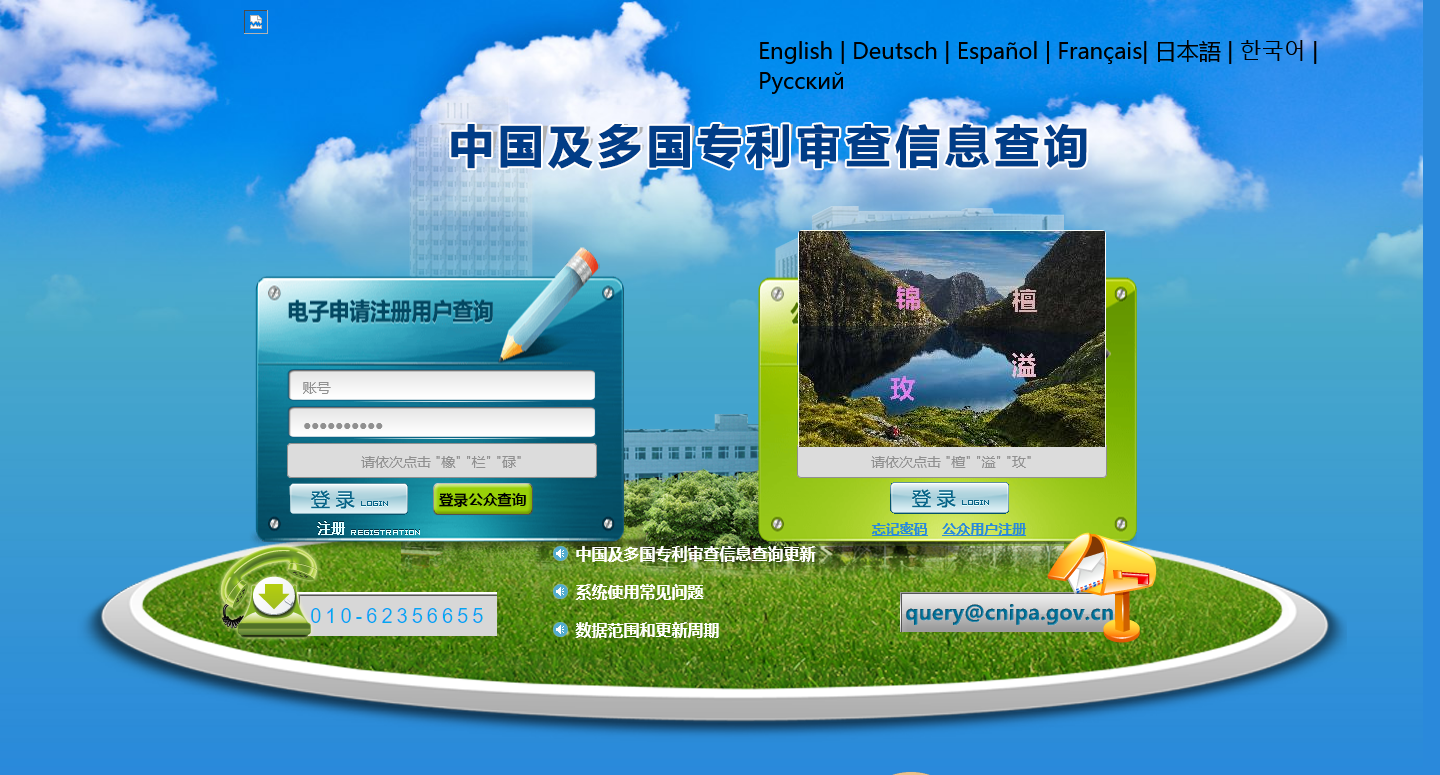
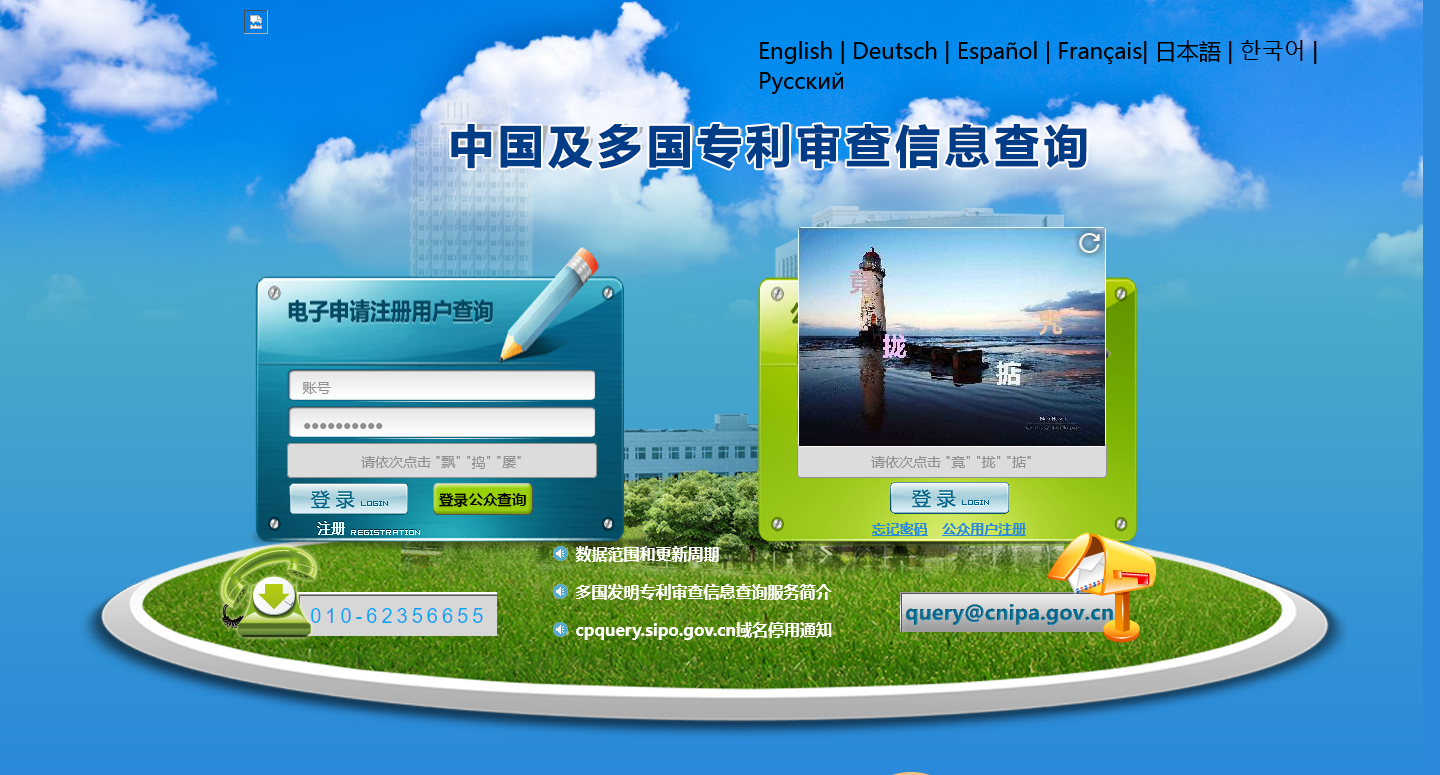
验证码测试

diff --git a/tool/tool.py b/tool/tool.py
@@ -8,7 +8,7 @@ from PIL import Image
 from selenium.webdriver import Firefox, ActionChains
 from selenium.webdriver import FirefoxOptions
 from selenium.webdriver.common.by import By
-from selenium.webdriver.support.ui import WebDriverWait
+from selenium.webdriver.support.wait import WebDriverWait
 from selenium.webdriver.support import expected_conditions as EC
 
 
@@ -32,21 +32,23 @@ def ddddocr_ocr(img_location):
 
 # 专利查询网计算验证码识别
 def patent_inquire_code(driver):
-    # 验证码地址
-    url = 'http://cpquery.cnipa.gov.cn/freeze.main?txn-code=createImgServlet'
-    driver.get(url)
-    driver.save_screenshot('../temporary/calculate.png')
-    rangle = 685, 378, (685 + 70), (378 + 20)  # 写成我们需要截取的位置坐标
-    i = Image.open('../temporary/calculate.png')  # 打开截图
-    frame4 = i.crop(rangle)  # 使用Image的crop函数，从截图中再次截取需要的区域
-    img_byte = BytesIO()
-    frame4.save(img_byte, 'png')
-    # 识别单个图片
+    # 获取计算验证码
+    driver.save_screenshot('../temporary/query_page.png')
+    imgelement = driver.find_element(By.XPATH, '//*[@id="authImg"]')  # 定位验证码
+    location = imgelement.location  # 获取验证码x,y轴坐标
+    size = imgelement.size  # 获取验证码的长宽
+    rangle = (int(location['x']), int(location['y']), int(location['x'] + size['width']),
+              int(location['y'] + size['height']))  # 写成我们需要截取的位置坐标
+    i = Image.open('../temporary/query_page.png')  # 打开截图
+    frame4 = i.crop(rangle)  # 使用Image的crop函数，从截图中再次截取我们需要的区域
+    img = BytesIO()
+    frame4.save(img, 'png')  # 保存接下来的验证码图片 进行打码
+
     ocr = ddddocr.DdddOcr()
-    img = ocr.classification(img_byte.getvalue())
+    word = ocr.classification(img.getvalue())
 
     # 对ocr识别后的字符串进行处理
-    number = list(img)
+    number = list(word)
     code = 0
     if number[1] == '-':
         code = int(number[0]) - int(number[2])
@@ -55,6 +57,15 @@ def patent_inquire_code(driver):
 
     gc.collect()
     return code
+
+
+# 判断元素是否存在
+def isElementExist(driver, xpath_path):
+    try:
+        WebDriverWait(driver, 2).until(EC.presence_of_element_located((By.XPATH, xpath_path)))
+        return False
+    except:
+        return True
 
 
 # 登录飞镖网后台获取cookies值
@@ -116,7 +127,6 @@ def login_patent_inquiry(driver, username, password):
 
 # 定位验证码并点击
 def load_verification_code(driver):
-    driver.implicitly_wait(20)
     code_text = driver.find_element(By.XPATH, '//*[@id="selectyzm_text"]').text
     data = code_text.split('"')
 
@@ -136,7 +146,7 @@ def load_verification_code(driver):
 
     code = []
     for coord in poses:
-        coord = (coord[0], coord[1], coord[2], coord[3])
+        coord = coord[0], coord[1], coord[2], coord[3]
         img_base = Image.open(BytesIO(img_byte.getvalue()))
         frame = img_base.crop(coord)  # 使用Image的crop函数，从截图中再次截取需要的区域
         img = BytesIO()
@@ -154,19 +164,7 @@ def load_verification_code(driver):
             if ss == coord_id['code']:
                 ActionChains(driver).move_to_element_with_offset(imgelement, coord_id['X'],
                                                                  coord_id['Y']).click().perform()
-                sleep(1)
-
-    aa = driver.find_element(By.XPATH, '//*[@id="selectyzm_text"]').text
-    while aa != '验证成功':
-        try:
-            element = driver.find_element(By.XPATH, '//*[@id="jcaptchaimage"]')
-            ActionChains(driver).move_to_element_with_offset(element, 300, 10).click().perform()
-        except Exception:
-            print('出错啦')
-        sleep(1)
-        load_verification_code(driver)
-    else:
-        driver.find_element(By.XPATH, '//input[@id="publiclogin"]').click()
+                sleep(0.5)
 
     # 释放内存
     gc.collect()

diff --git a/test/test.py b/test/test.py
@@ -8,30 +8,57 @@ from selenium.webdriver import ActionChains
 from selenium.webdriver.common.by import By
 from selenium.webdriver.support.wait import WebDriverWait
 
-from tool.tool import getdriver, login_patent_inquiry, patent_inquire_code, load_verification_code
+from tool.tool import getdriver, login_patent_inquiry, patent_inquire_code, load_verification_code, isElementExist
 
 driver = getdriver()
 driver.get('http://cpquery.cnipa.gov.cn/')
 driver.maximize_window()
+# 隐示等待，用于等待网页加载，应用于全局
 driver.implicitly_wait(20)
-# 显示等待，等待验证码加载出来
-WebDriverWait(driver, 20).until(EC.text_to_be_present_in_element((By.XPATH, '//*[@id="selectyzm_text"]'), u'请依次点击'))
+# 显示等待，等待验证码文字加载出来
+WebDriverWait(driver, 20).until(EC.text_to_be_present_in_element((By.XPATH, '//*[@id="selectyzm_text"]'), '请依次点击'))
+# 显示等待，等待验证码图片加载出来
+WebDriverWait(driver, 20).until(EC.presence_of_element_located((By.XPATH, '//*[@id="jcaptchaimage"]')))
 
-# 输入账号
+# 输入账号密码
 login_patent_inquiry(driver, username='15156052212', password='Zhixin888*')
 
-move = driver.find_element(By.XPATH, '//span[@id="selectyzm_text"]')
-ActionChains(driver).move_to_element(move).perform()
-sleep(1)
+# move = driver.find_element(By.XPATH, '//span[@id="selectyzm_text"]')
+# ActionChains(driver).move_to_element(move).perform()
+# sleep(1)
+imgyzm = driver.find_element(By.XPATH, '//*[@id="imgyzm"]')
+reload = driver.find_element(By.XPATH, '//*[@id="reload"]')
+driver.execute_script("arguments[0].setAttribute(arguments[1],arguments[2])", reload, 'style', 'position: absolute; bottom: 230px; left: 275px; height: 0px;')
+driver.execute_script("arguments[0].setAttribute(arguments[1],arguments[2])", imgyzm, 'class', 'requestYzm')
+driver.execute_script("arguments[0].setAttribute(arguments[1],arguments[2])", reload, 'class', 'refresh')
 
 load_verification_code(driver)
+# 处理验证码点击错误重新加载
+while driver.find_element(By.XPATH, '//*[@id="selectyzm_text"]').text != '验证成功':
+    element = driver.find_element(By.XPATH, '//*[@class="img_reload"]')
+    ActionChains(driver).move_to_element_with_offset(element, 15, 15).click().perform()
+    sleep(2)
+    load_verification_code(driver)
+else:
+    driver.find_element(By.XPATH, '//input[@id="publiclogin"]').click()
+
+# 等待登录加载完成
 WebDriverWait(driver, 40).until(EC.presence_of_element_located((By.XPATH, '//*[@class="tittle_box"]')))
 
-elementObj = driver.find_element(By.XPATH, '//*[@id="goBtn"]')
-driver.execute_script("arguments[0].removeAttribute(arguments[1])", elementObj, 'disabled')
-sleep(2)
-elementObj.click()
-# driver.get('http://cpquery.cnipa.gov.cn/txnPantentInfoList.do?')
+driver.get('http://cpquery.cnipa.gov.cn/txnPantentInfoList.do?')
+sleep(1)
+# 计算验证码识别
+count_code = patent_inquire_code(driver)
+driver.get(
+    'http://cpquery.cnipa.gov.cn/txnQueryOrdinaryPatents.do?select-key:shenqingh=' + '2017107806169' + '&verycode=' + str(
+        count_code))
+# 处理计算验证码失效或识别错误
+# WebDriverWait(driver, 2).until(EC.presence_of_element_located((By.XPATH, '//*[@class="bi_icon"]')))
+while isElementExist(driver=driver, xpath_path='//*[@class="bi_icon"]'):
+    count_code = patent_inquire_code(driver)
+    driver.get(
+        'http://cpquery.cnipa.gov.cn/txnQueryOrdinaryPatents.do?select-key:shenqingh=' + '2017107806169' + '&verycode=' + str(
+            count_code))
 
 # token = re.findall('token=(.*?)&', driver.current_url)
 # print(token)

diff --git a/test/test2.py b/test/test2.py
@@ -9,11 +9,8 @@ driver = getdriver()
 driver.get('http://cpquery.cnipa.gov.cn/')
 driver.maximize_window()
 driver.implicitly_wait(20)
-# 显示等待，等待验证码加载出来
-WebDriverWait(driver, 20).until(EC.text_to_be_present_in_element((By.XPATH, '//*[@id="selectyzm_text"]'), u'请依次点击'))
-
-js='window.open("https://www.sogou.com");'
-driver.execute_script(js)
-driver.switch_to.window(driver.window_handles[1])  # 转到第2个（从0开始）
-
-print(driver.current_url)
+# 显示等待，等待验证码文字加载出来
+WebDriverWait(driver, 10).until(EC.text_to_be_present_in_element((By.XPATH, '//*[@id="selectyzm_text"]'), '请依次点击'))
+# 显示等待，等待验证码图片加载出来
+WebDriverWait(driver, 10).until(EC.presence_of_element_located((By.XPATH, '//*[@id="jcaptchaimage"]')))
+WebDriverWait(driver, 10).until(EC.presence_of_element_located((By.XPATH, '//*[@class="img_reload"]')))
